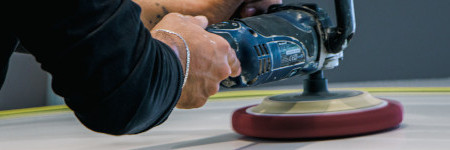
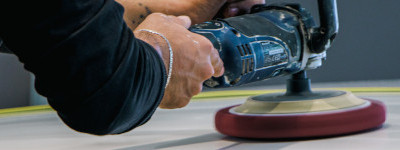
fix pag 1.5

diff --git a/estilos/pagina.css b/estilos/pagina.css
@@ -58,11 +58,12 @@ header #botao{
 
 #imagem{
     text-align: center;
+    margin: 20px;
 }
 
 .img{
-    margin: auto;
-    width: 450px;
+    margin: 20px auto;
+    width: 400px;
 }
 
 .titulo{
@@ -70,8 +71,8 @@ header #botao{
     position: absolute;
     text-align: center;
     font-size: 1.5em;
-    top: 140px;
-    width: 470px;
+    top: 150px;
+    width: 485px;
     text-shadow: 1px 5px 10px black;
     
 }
